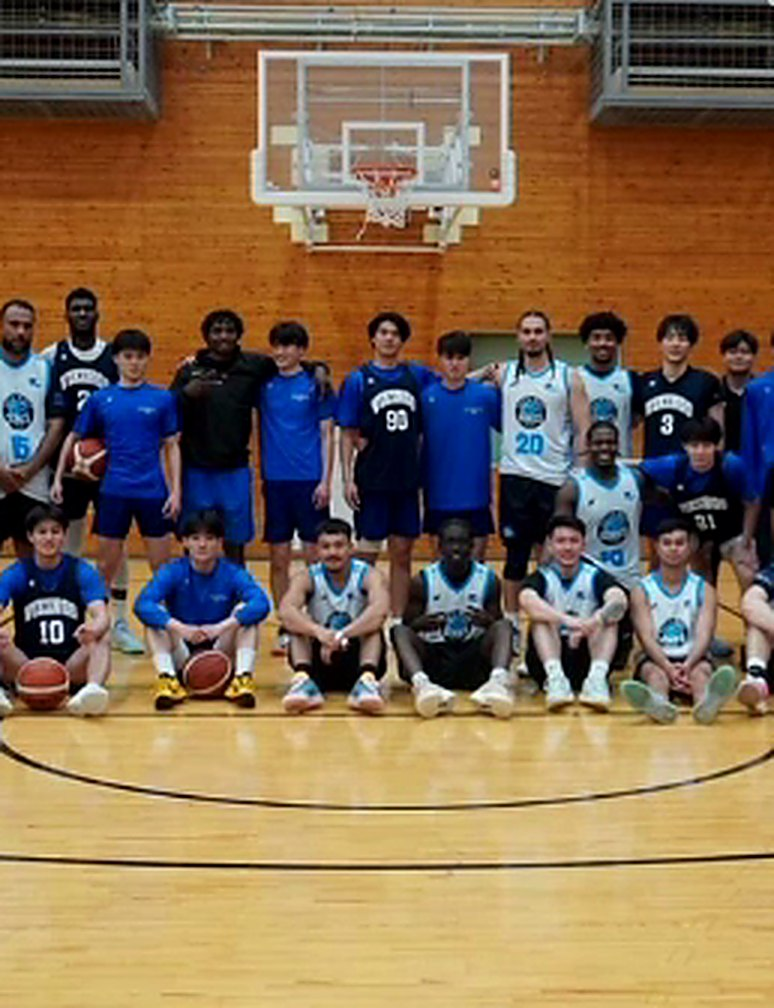
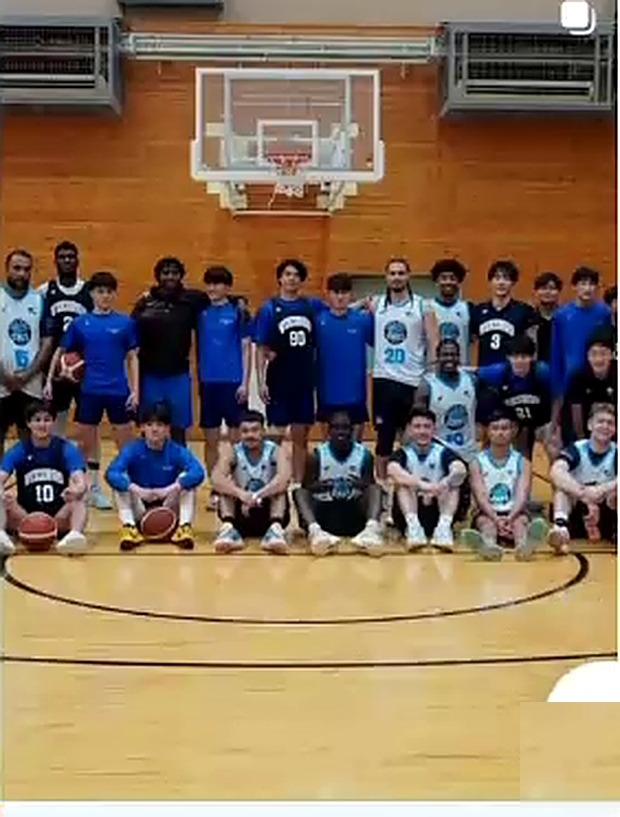
Site: rebuild every photo from a cleaner source and stop upscaling them
Two separate problems were making the photos look bad.

Wrong source. The images were cut from the 20-second Instagram screen
recording, which is heavily compressed and full of scrolling motion.
The second, 4.8-second recording shows the same grid at the same tile
size but with far less compression. Re-cut everything from that one,
and stacked the stationary frames of each run (up to 30 frames averaged)
to cancel the remaining H.264 noise before any enlargement. The
celebration shot needed a targeted search across all 144 frames to find
the one position where the whole tile was on screen.

Too much enlargement. Instagram grid tiles are 282x372, and the site was
painting them at ~860 device px — a 3x upscale, which is what actually
read as "bad resolution". Capped the split and two-column photo columns
at 352px and the rail at 840px, so every image now paints between 0.85x
and 1.29x of its native pixels. Several are downscaled now, which is
free sharpness.

Also: fixed the flipped two-column layout, which put the photo in the
wide column and was still painting the seniors portrait at 2.5x;
patched out three Instagram UI artifacts (a carousel badge, a hover
button, a strip of the row above); dropped kid.jpg, teams.jpg and
ubl.jpg, which nothing references any more.

This is the ceiling for this source. 282x372 is all the recording ever
captured, so no amount of processing adds real detail — original photos
from the club would.
[…]

diff --git a/southwest-sonics-site/index.html b/southwest-sonics-site/index.html
@@ -293,7 +293,7 @@ footer .fg{font-size:10.5px;font-weight:700;letter-spacing:.19em;text-transform:
 .rail{display:flex;gap:14px;margin-top:30px;overflow-x:auto;scroll-snap-type:x mandatory;
   padding-bottom:6px;scrollbar-width:none;-webkit-overflow-scrolling:touch}
 .rail::-webkit-scrollbar{display:none}
-.rail figure{position:relative;flex:0 0 76%;max-width:340px;scroll-snap-align:center;
+.rail figure{position:relative;flex:0 0 74%;max-width:300px;scroll-snap-align:center;
   border-radius:17px;overflow:hidden;border:1px solid var(--line);aspect-ratio:4/5;
   background:#101012;box-shadow:0 26px 60px -30px rgba(0,0,0,.9);
   transition:transform .45s var(--ease),border-color .4s}
@@ -336,10 +336,12 @@ footer .fg{font-size:10.5px;font-weight:700;letter-spacing:.19em;text-transform:
   .c{padding:30px 28px} .c h3{font-size:24px} .c p{font-size:16.5px}
 
   /* tryouts — editorial split */
-  .duo .wrap{display:grid;grid-template-columns:1fr minmax(0,430px);gap:70px;
+  .duo .wrap{display:grid;grid-template-columns:1fr minmax(0,352px);gap:74px;
     align-items:center;justify-content:space-between}
   .duo .photo{margin-top:0;aspect-ratio:4/5}
   .duo .hbtns{margin-top:30px} .duo .hbtns .btn{min-width:0}
+  /* flipped: the photo takes the narrow column, not the wide one */
+  .duo.flip .wrap{grid-template-columns:minmax(0,352px) 1fr}
   .duo.flip .photo{order:-1}
   .path .p b{font-size:19px} .path .p span{font-size:10px}
   .tryout{padding:26px} .tryout .d b{font-size:50px} .tryout .t{font-size:20px}
@@ -359,7 +361,7 @@ footer .fg{font-size:10.5px;font-weight:700;letter-spacing:.19em;text-transform:
 
   /* split + rail */
   .split{margin-top:96px}
-  .split .wrap{display:grid;grid-template-columns:minmax(0,430px) 1fr;gap:70px;align-items:center;
+  .split .wrap{display:grid;grid-template-columns:minmax(0,352px) 1fr;gap:74px;align-items:center;
     justify-content:space-between}
   .split .pic{aspect-ratio:4/5}
   .split.flip .pic{order:2}
@@ -367,7 +369,8 @@ footer .fg{font-size:10.5px;font-weight:700;letter-spacing:.19em;text-transform:
   .split h2{font-size:clamp(44px,4.4vw,56px);max-width:14ch}
   .split .body{font-size:18.5px}
   .split .pull{font-size:27px;margin-top:28px}
-  .rail{gap:20px;margin-top:44px;overflow-x:visible;display:grid;grid-template-columns:repeat(3,1fr)}
+  .rail{gap:20px;margin-top:44px;overflow-x:visible;display:grid;grid-template-columns:repeat(3,1fr);
+    max-width:840px}
   .rail figure{flex:none;max-width:none}
   .railhint{display:none}
 
